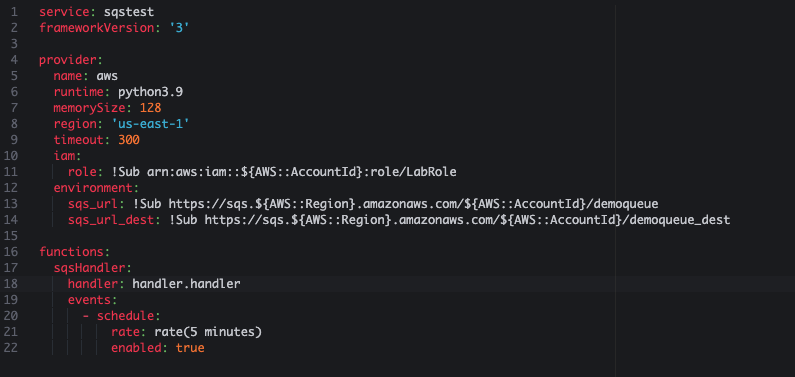
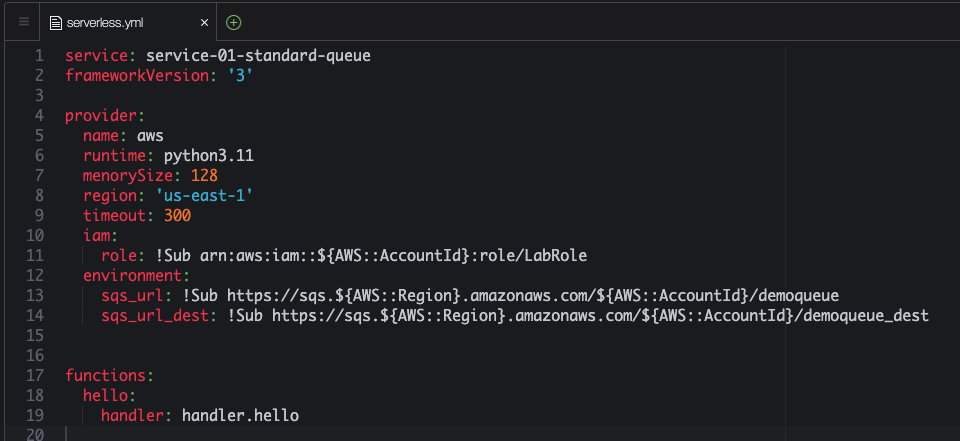
SQS Standard Queue

Changed region(s): [[0.0, 0.0, 0.966, 1.0], [0.0, 0.2334, 0.0302, 0.2918]]

diff --git a/05-SQS/01 - Standard Queue/README.md b/05-SQS/01 - Standard Queue/README.md
@@ -13,7 +13,7 @@
 <details>
 <summary> 
 
-## Explicação
+**Explicação**
 
 </summary>
 
@@ -71,17 +71,17 @@ As URLs de filas Amazon SQS são componentes essenciais para identificar e inter
 
 ### Enviando dados para a fila
 
-1. No terminal do CLoud 9 IDE criado no cloud9 execute o comando `cd ~/environment/fiap-cloud-computing-tutorials/05-SQS/01\ -\ Standard\ Queue/` para entrar na pasta que fara este exercicio.
-2. Abra o arquivo put.py com o comando `c9 open put.py`
-3. Volte a aba do SQS e copie a URL da fila que criou nos passos anteriores
+3. No terminal do CLoud 9 IDE criado no cloud9 execute o comando `cd ~/environment/fiap-cloud-computing-tutorials/05-SQS/01\ -\ Standard\ Queue/` para entrar na pasta que fara este exercicio.
+4. Abra o arquivo put.py com o comando `c9 open put.py`
+5. Volte a aba do SQS e copie a URL da fila que criou nos passos anteriores
     
     ![](img/sqs02.png)
     
-4. Altere o arquivo put.py adicionando a URL da fila do sqs que criou nos passos anteriores
+6. Altere o arquivo put.py adicionando a URL da fila do sqs que criou nos passos anteriores
 
     ![img/sendtoqueue01.png](img/sendtoqueue01.png)
 
-5. Execute os comandos abaixo para garantir que esta em um ambiente virtual do python com as dependencias necessárias para executar o execício:
+7. Execute os comandos abaixo para garantir que esta em um ambiente virtual do python com as dependencias necessárias para executar o execício:
 
    ``` shell
    pip3 install virtualenv && python3 -m venv ~/venv
@@ -90,7 +90,7 @@ As URLs de filas Amazon SQS são componentes essenciais para identificar e inter
    sudo npm i serverless@3.39.0 -g
    ```
 
-6. Execute o comando `python3 put.py` no terminal para colocar 3000 mensagens na fila. Verifique no [console](https://us-east-1.console.aws.amazon.com/sqs/v3/home?region=us-east-1#/queues) o resultado do comando.
+8. Execute o comando `python3 put.py` no terminal para colocar 3000 mensagens na fila. Verifique no [console](https://us-east-1.console.aws.amazon.com/sqs/v3/home?region=us-east-1#/queues) o resultado do comando.
 
 ![alt](img/sendtoqueue02.png)
 
@@ -98,13 +98,13 @@ As URLs de filas Amazon SQS são componentes essenciais para identificar e inter
 <details>
 <summary> 
 
-## Explicação
+**Explicação**
 
 </summary>
 
 <blockquote>
 
-### Explicação do Código
+#**Explicação** do Código
 
 ```python
 from sqsHandler import SqsHandler
@@ -154,21 +154,234 @@ Este código cria **3000 mensagens**, divide-as em lotes de até **10 mensagens 
 
 ### Consumindo SQS
 
-1. [Crie mais uma fila](https://us-east-1.console.aws.amazon.com/sqs/v3/home?region=us-east-1#/create-queue) sqs utilizando o mesmo procedimento do exercicio anterior com o mesmo nome da anterior com o sulfixo '_dest', ficará `demoqueue_dest`
-2. Execute o comando no terminal do cloud 9 `sls create --template "aws-python3"`
-3. Abra o arquivo serverless.yml com o comando `c9 open serverless.yml`
-4. Altere o arquivo 'serverless.yml' e coloque o seguinte conteudo, não esqueça de preencher as duas URLs das filas como descrito:
+9. [Crie mais uma fila](https://us-east-1.console.aws.amazon.com/sqs/v3/home?region=us-east-1#/create-queue) sqs utilizando o mesmo procedimento do exercicio anterior com o mesmo nome da anterior com o sulfixo '_dest', ficará `demoqueue_dest`
+
+![](img/sqs-dest-1.png)
+
+10. Execute o comando no terminal do cloud 9 `sls create --template "aws-python3"`
+11. Abra o arquivo serverless.yml com o comando `c9 open serverless.yml`
+12. Altere o arquivo 'serverless.yml' e coloque o seguinte conteudo, não esqueça de preencher as duas URLs das filas como descrito:
 
 ![img/lambda-01.png](img/lambda-01.png)
 
-5. Crie o arquivo 'handler.py' com o seguinte conteudo. O abra com o seguinte comando `c9 open handler.py`
+
+<details>
+<summary> 
+
+**Explicação**
+
+</summary>
+
+<blockquote>
+
+O arquivo **`serverless.yml`** define a configuração de um serviço no **Serverless Framework** para uma aplicação em **AWS Lambda** que utiliza Python 3.11 como ambiente de execução e interage com duas filas **SQS**. Vamos analisar cada seção em detalhes.
+
+### 1. Nome do Serviço e Versão do Framework
+
+```yaml
+service: service-01-standard-queue
+frameworkVersion: '3'
+```
+
+- **`service`**: Define o nome do serviço. Neste caso, é chamado **`service-01-standard-queue`**, servindo como identificador para os recursos criados na AWS (como o CloudFormation Stack).
+- **`frameworkVersion`**: Especifica a versão do Serverless Framework que será usada. Aqui, a versão **3** garante que o projeto siga as sintaxes e funcionalidades dessa versão específica.
+
+### 2. Provedor de Nuvem e Configurações
+
+```yaml
+provider:
+  name: aws
+  runtime: python3.11
+  memorySize: 128
+  region: 'us-east-1'
+  timeout: 300
+  iam:
+    role: !Sub arn:aws:iam::${AWS::AccountId}:role/LabRole
+  environment:
+    sqs_url: !Sub https://sqs.${AWS::Region}.amazonaws.com/${AWS::AccountId}/demoqueue
+    sqs_url_dest: !Sub https://sqs.${AWS::Region}.amazonaws.com/${AWS::AccountId}/demoqueue_dest
+```
+
+- **`provider`**: Define o provedor de nuvem para o serviço, que neste caso é a **AWS**.
+
+  - **`name: aws`**: Especifica a AWS como provedor.
+  
+  - **`runtime: python3.11`**: Define o ambiente de execução das funções Lambda como **Python 3.11**.
+  
+  - **`memorySize: 128`**: Define a quantidade de memória (em MB) atribuída a cada execução da função Lambda. Aqui, foi configurada com o mínimo de 128 MB, o que afeta o custo e desempenho da função.
+
+  - **`region: 'us-east-1'`**: Define a região da AWS onde os recursos serão implantados. Neste caso, a região é **`us-east-1`** (Virgínia do Norte).
+
+  - **`timeout: 300`**: Define o tempo máximo de execução da função Lambda em segundos (5 minutos), após o qual a função será interrompida automaticamente caso não tenha terminado.
+
+  - **`iam`**:
+    - **`role`**: Especifica a **IAM Role** que será usada para essa função Lambda. Aqui, a role é referenciada por meio do comando **`!Sub`**, que substitui variáveis na string.
+    - **`!Sub arn:aws:iam::${AWS::AccountId}:role/LabRole`**: O **`!Sub`** (substituição) é uma função do **CloudFormation** que injeta o ID da conta AWS atual na variável **`${AWS::AccountId}`**, resultando no ARN correto para a **LabRole**. Como você está utilizando uma conta do **AWS Academy** onde a criação de IAM Roles é restrita, a **LabRole** já existente é referenciada diretamente.
+
+  - **`environment`**:
+    - Define variáveis de ambiente para a função Lambda, acessíveis durante a execução.
+    - **`sqs_url`**: Armazena a URL da fila SQS de origem chamada **`demoqueue`**. O **`!Sub`** injeta a região da AWS atual (**`${AWS::Region}`**) e o ID da conta (**`${AWS::AccountId}`**) na URL da fila.
+    - **`sqs_url_dest`**: Armazena a URL de uma fila SQS de destino chamada **`demoqueue_dest`**, seguindo o mesmo padrão de substituição da variável.
+
+### 3. Definição das Funções
+
+```yaml
+functions:
+  hello:
+    handler: handler.hello
+```
+
+- **`functions`**: Esta seção define as funções Lambda que serão implantadas com o serviço.
+
+  - **`hello`**: Nome da função Lambda. Aqui, a função é chamada **`hello`**.
+  
+    - **`handler: handler.hello`**: Define o caminho do arquivo e da função que será executada. O arquivo é **`handler.py`**, e a função **`hello`** dentro desse arquivo será chamada quando a função Lambda for invocada.
+
+### Resumo do Funcionamento
+
+Este arquivo **`serverless.yml`** configura um serviço na AWS que inclui uma função Lambda chamada **`hello`**. Esta função é configurada para interagir com duas filas SQS (uma de origem e uma de destino), cujas URLs são passadas como variáveis de ambiente para a função Lambda. Ao configurar uma **IAM Role** já existente (**LabRole**), evita-se a criação de novas permissões, algo necessário devido às restrições de criação de roles em contas do **AWS Academy**. O uso do **`!Sub`** permite referenciar dinamicamente a região e a conta AWS, garantindo que as URLs e permissões estejam corretas.
+
+
+</blockquote>
+
+</details>
+
+
+13. Altere o arquivo 'handler.py' deixando o conteúdo identico ao da imagem abaixo. O abra com o seguinte comando `c9 open handler.py`
+
 ![img/lambda-02.png](img/lambda-02.png)
-7. rode o comando `sls deploy`
-8. Coloque alguns itens na fila com o comando `python3 put.py`, lembrando que cada execução do lambda criado pode consumir até 1000 posições da fila sqs.
-9. Para execução do lambda rode o comando `sls invoke -l -f sqsHandler` no terminal
-10. Enquando espera o comando terminar pode observar no painel do SQS as mensagens se movendo a cada atualização manual pelo canto direito superior. Lembre que cada execução move 1000 por definição no código. [Link para painel SQS](https://console.aws.amazon.com/sqs/v2/home?region=us-east-1#/queues)
+
+<details>
+<summary> 
+
+**Explicação**
+
+</summary>
+
+<blockquote>
+
+Este código em Python manipula duas filas **Amazon SQS** (Simple Queue Service), utilizando uma classe personalizada chamada **`SqsHandler`** e um módulo **`Variables`** para obter as URLs das filas. Ele lê mensagens de uma fila de origem, processa cada mensagem e a envia para uma fila de destino, deletando-a da fila de origem após o envio.
+
+### Explicação do Código
+
+```python
+from sqsHandler import SqsHandler
+from env import Variables
+import json
+```
+
+- **`from sqsHandler import SqsHandler`**: Importa a classe **`SqsHandler`**, que é uma classe personalizada que encapsula métodos para interagir com o **SQS** (como envio, recebimento e exclusão de mensagens). 
+- **`from env import Variables`**: Importa a classe **`Variables`**, que provavelmente fornece um método para acessar variáveis de ambiente, incluindo as URLs das filas de origem e destino.
+- **`import json`**: Importa o módulo **`json`**, usado para serializar e desserializar mensagens em JSON, facilitando o processamento e envio das mensagens entre filas.
+
+### Função `handler`
+
+```python
+def handler(event, context):
+```
+- A função **`handler`** é o ponto de entrada da função Lambda, e recebe dois parâmetros:
+  - **`event`**: Contém dados sobre o evento que acionou a função Lambda.
+  - **`context`**: Contém informações sobre o contexto de execução da função (não utilizado diretamente neste código).
+
+### Instanciação das Variáveis e Filas SQS
+
+```python
+    env = Variables()
+    sqs = SqsHandler(env.get_sqs_url())
+    sqs_dest = SqsHandler(env.get_sqs_url_dest())
+```
+
+- **`env = Variables()`**: Cria uma instância da classe **`Variables`** para acessar as variáveis de ambiente.
+- **`sqs = SqsHandler(env.get_sqs_url())`**: Instancia um objeto **`sqs`** para interagir com a fila de origem, cuja URL é obtida usando **`env.get_sqs_url()`**.
+- **`sqs_dest = SqsHandler(env.get_sqs_url_dest())`**: Instancia um objeto **`sqs_dest`** para interagir com a fila de destino, cuja URL é obtida usando **`env.get_sqs_url_dest()`**.
+
+### Laço de Processamento das Mensagens
+
+```python
+    for i in range(100):
+        msgs = sqs.getMessage(10)
+        print(json.dumps(msgs))
+        
+        if 'Messages' not in msgs:
+            break
+        if len(msgs['Messages']) == 0:
+            break
+```
+
+- **`for i in range(100):`**: Define um laço para processar mensagens até 100 vezes, garantindo que o código não execute indefinidamente caso haja mensagens contínuas.
+- **`msgs = sqs.getMessage(10)`**: Chama o método **`getMessage`** da instância **`sqs`** (fila de origem), tentando obter até **10 mensagens** de uma vez. O valor `10` indica o máximo de mensagens que o SQS permite em uma única chamada.
+- **`print(json.dumps(msgs))`**: Exibe as mensagens recebidas em formato JSON para monitoramento e depuração.
+- **Condições de Interrupção (`break`)**:
+  - **`if 'Messages' not in msgs`**: Interrompe o laço se não houver uma chave **`Messages`** na resposta, indicando que não há mensagens disponíveis.
+  - **`if len(msgs['Messages']) == 0`**: Interrompe o laço se a lista de mensagens estiver vazia, o que confirma que não há mais mensagens a serem processadas.
+
+### Processamento de Cada Mensagem
+
+```python
+        for message in msgs['Messages']:
+            sqs_dest.send(json.dumps(message['Body']))
+            sqs.deleteMessage(message['ReceiptHandle'])
+```
+
+- **`for message in msgs['Messages']:`**: Itera sobre cada mensagem dentro da lista **`Messages`** retornada pela fila SQS de origem.
+- **`sqs_dest.send(json.dumps(message['Body']))`**: 
+  - Converte o **conteúdo da mensagem** (`message['Body']`) em JSON e envia para a **fila de destino** usando o método **`send`** da instância **`sqs_dest`**.
+- **`sqs.deleteMessage(message['ReceiptHandle'])`**:
+  - Após enviar a mensagem para a fila de destino, o código a exclui da fila de origem para evitar o reprocessamento. 
+  - O método **`deleteMessage`** usa o **`ReceiptHandle`**, que é um identificador único retornado quando a mensagem é recebida, necessário para deletar a mensagem do SQS.
+
+### Resumo do Funcionamento
+
+1. **Leitura de Mensagens**: A função lê até 10 mensagens por vez da fila de origem (repetindo até 100 vezes ou até que as mensagens acabem).
+2. **Envio para Fila de Destino**: Cada mensagem é enviada para a fila de destino.
+3. **Remoção da Fila de Origem**: Após o envio, a mensagem é excluída da fila de origem.
+
+Este código permite um **processamento em lote** de mensagens entre duas filas SQS, garantindo que as mensagens sejam transferidas e processadas de maneira eficiente e sem duplicação.
+
+</blockquote>
+
+</details>
+
+14. rode o comando `sls deploy` no terminal para criar o lambda
+15. Para execução do lambda rode o comando `sls invoke -l -f sqsHandler` no terminal para invocar a função lambda récem criada que irá consumir as mensagens da fila e enviar para a fila de destino.
+16. Enquando espera o comando terminar pode observar no painel do SQS as mensagens se movendo a cada atualização manual pelo canto direito superior. Lembre que cada execução move 1000 por definição no código. [Link para painel SQS](https://console.aws.amazon.com/sqs/v2/home?region=us-east-1#/queues)
+    
     ![alt](img/lambda-02-1.png)
-11. Vá até o painel de [regras do cloudwath](https://us-east-1.console.aws.amazon.com/events/home?region=us-east-1#/rules?redirect_from_cwe=true) que verá a regra de execução baseada em tempo criada com o serverless framework. A regra tem nome iniciado em `sqstest`
-![img/lambda-03.png](img/lambda-03.png)
-12. Se esperar alguns execuções vai ver que a fila principal vai zerar.
-13. Execute o comando `sls remove` no terminal para remover o que foi criado.
+
+<details>
+<summary> 
+
+**Explicação**
+
+</summary>
+
+<blockquote>
+
+No Amazon SQS, mensagens com status **"em trânsito"** (ou **"in-flight"**) são aquelas que foram recuperadas por um consumidor (ou seja, foram lidas da fila) mas ainda não foram excluídas ou cujo tempo de visibilidade (Visibility Timeout) não expirou. Esse conceito de "mensagem em trânsito" é importante para garantir que as mensagens processadas por um consumidor não sejam visíveis para outros consumidores até que o processamento esteja completo.
+
+### Como Funcionam as Mensagens "Em Trânsito"
+
+1. **Recepção e Visibilidade Temporária**:
+   - Quando uma mensagem é lida por um consumidor usando, por exemplo, o método **`ReceiveMessage`**, essa mensagem é temporariamente **removida da fila** e fica invisível para outros consumidores. Essa invisibilidade temporária é determinada pelo **Visibility Timeout** da mensagem.
+   - Durante o **Visibility Timeout**, a mensagem é considerada **"em trânsito"**, pois está sendo processada pelo consumidor atual.
+
+2. **Tempo de Visibilidade e Reaparecimento na Fila**:
+   - Se o consumidor finaliza o processamento e exclui a mensagem antes que o **Visibility Timeout** expire, a mensagem é removida da fila definitivamente.
+   - Caso o tempo de visibilidade expire antes da exclusão, a mensagem reaparece na fila e estará disponível para que outros consumidores a processem novamente. Isso garante que mensagens não processadas completamente possam ser reatribuídas.
+
+3. **Contagem de Mensagens "Em Trânsito"**:
+   - O Amazon SQS mantém uma contagem do número de mensagens que estão em trânsito, disponível através do métrico **ApproximateNumberOfMessagesNotVisible** no **Amazon CloudWatch**. Esse valor representa uma estimativa do total de mensagens que estão invisíveis devido ao processamento ativo ou ao tempo de visibilidade.
+   - Essa contagem ajuda a monitorar quantas mensagens estão sendo processadas ao mesmo tempo e pode indicar um acúmulo de mensagens caso o valor seja alto, sugerindo a necessidade de ajustar o tempo de visibilidade ou a quantidade de consumidores para processar as mensagens de forma mais eficaz.
+
+Para mais informações, consulte a [documentação oficial do Amazon SQS sobre o Tempo de Visibilidade](https://docs.aws.amazon.com/pt_br/AWSSimpleQueueService/latest/SQSDeveloperGuide/sqs-visibility-timeout.html).
+
+### Resumo
+
+As mensagens "em trânsito" no SQS representam um mecanismo importante para garantir o processamento único de mensagens, minimizando a duplicação e permitindo o reprocessamento caso o tempo de visibilidade expire sem que a mensagem seja excluída. A contagem dessas mensagens em trânsito permite aos desenvolvedores e administradores monitorar a fila e otimizar a entrega e o consumo das mensagens.
+
+</blockquote>
+
+</details>
+
+17. Para zerar as mensagens da fila de destino execute o comando `sls invoke -l -f sqsHandler` mais 2 vezes. Cada execução moverá 1000 mensagens.
+18.  Execute o comando `sls remove` no terminal para remover o que foi criado.
